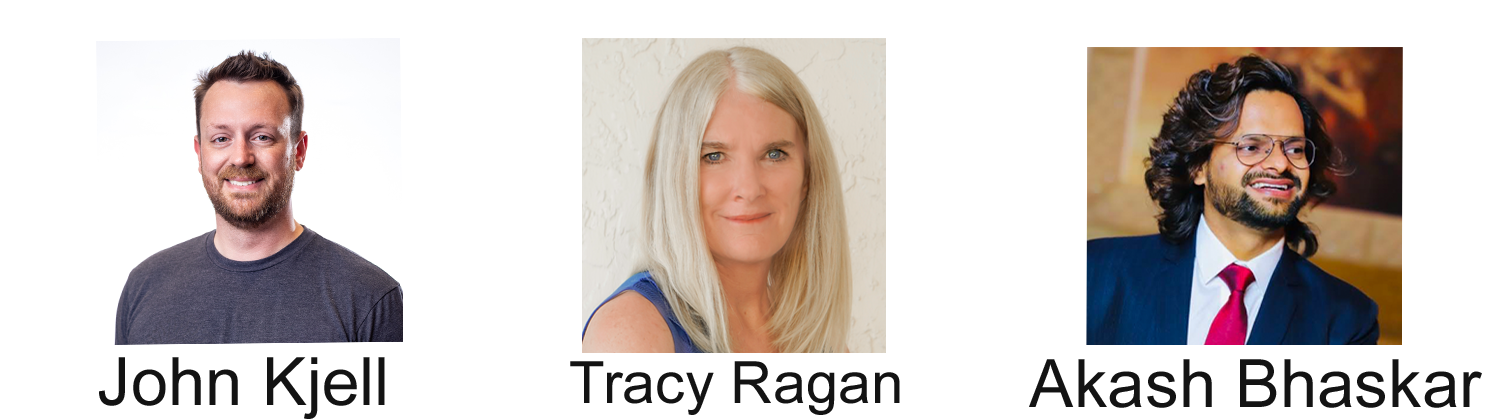
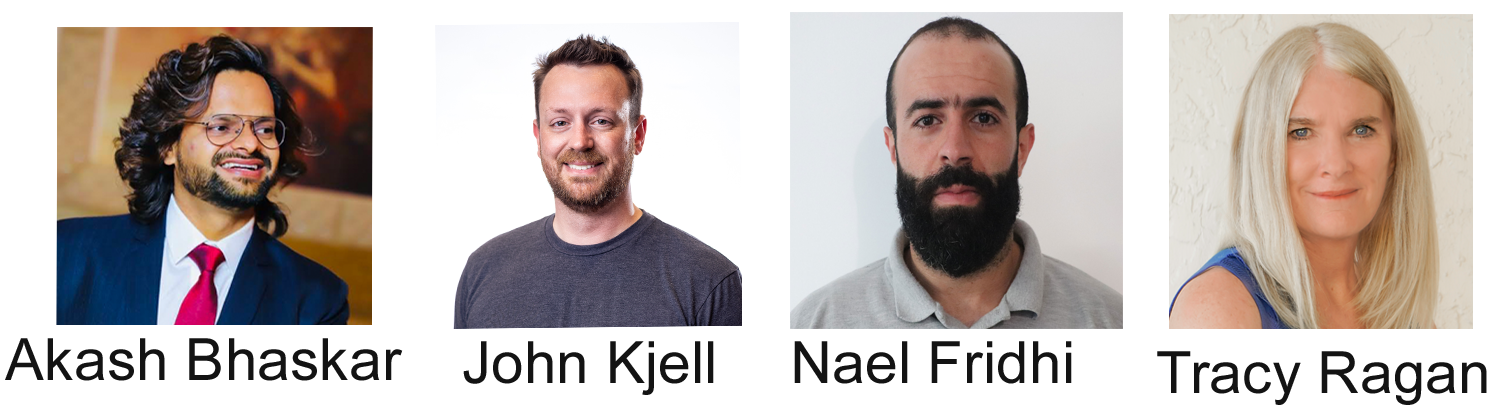
Signed-off-by: tracyragan <tracy@deployhub.com>

diff --git a/content/en/blog/news/SecureChain2024.md b/content/en/blog/news/SecureChain2024.md
@@ -152,6 +152,8 @@ All times in Mountain Time.
 
 - A step closer to in-toto’lly secure: Using in-toto and OPA Gatekeeper to verify artifact integrity, Presented by [John Kjell](https://www.linkedin.com/in/john-kjell/), TestifySec
 
+- A Google Cloud Software Supply Chain Security, Presented by [Nael Fridhi](https://www.linkedin.com/in/naelfridhi/)
+
 - The Hero Project - Evolving DevOps Pipelines to DevSecOps Pipelines with CDEvents and Ortelius [Tracy Ragan](https://www.linkedin.com/in/tracy-ragan-oms/)
 
 
